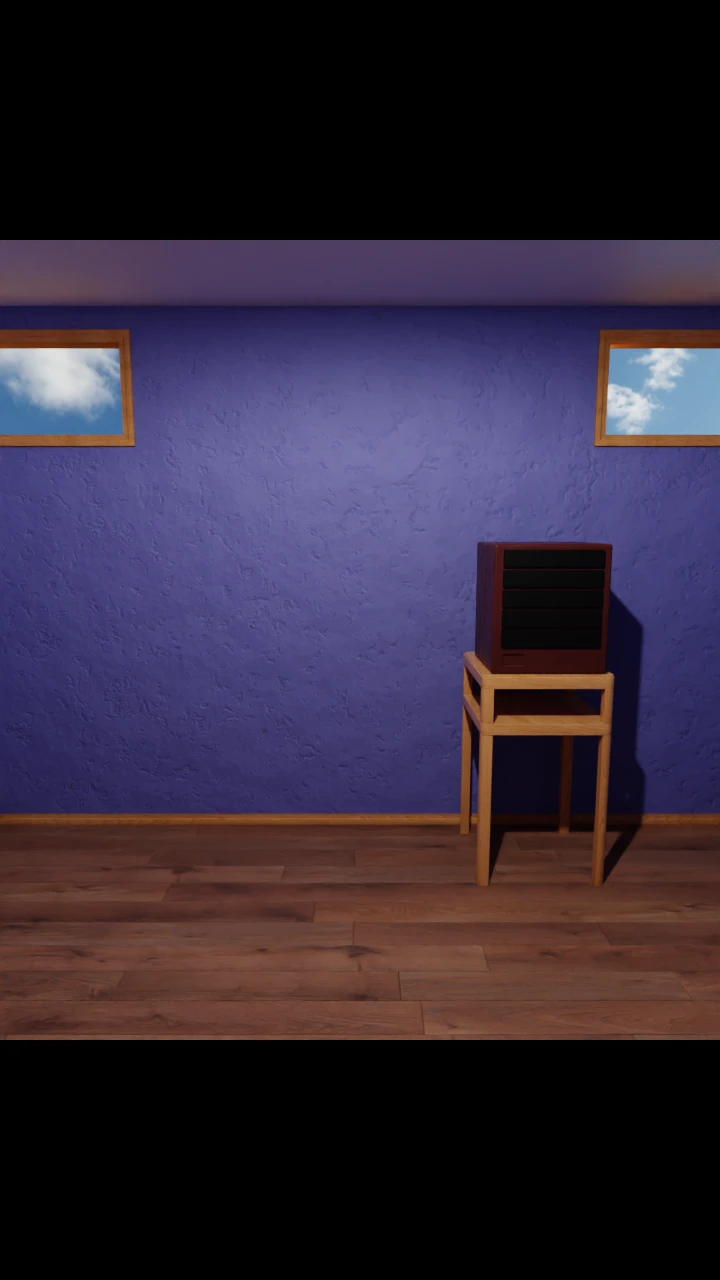
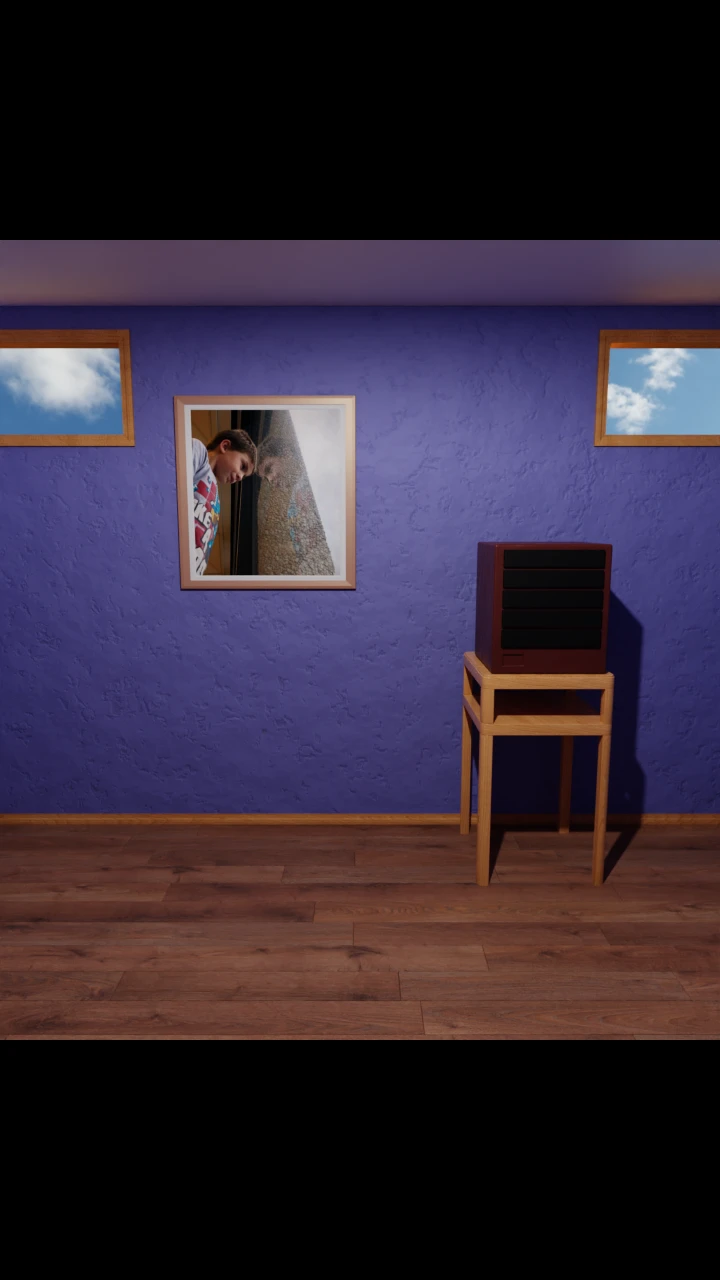
ryland

Changed region(s): [[0.2139, 0.2812, 0.5194, 0.4688]]

diff --git a/src/scenes/main.ts b/src/scenes/main.ts
@@ -24,6 +24,7 @@
 * spoiler sound
 * settings mask, smaller
 * spoiler mask
+* do make secret icon pop objectives on top
 
 * limit 20 minutes, display time at exit
 
@@ -106,6 +107,7 @@ let tableMask: Phaser.GameObjects.Sprite;
 let doorMask: Phaser.GameObjects.Sprite;
 let rangerMask: Phaser.GameObjects.Sprite;
 let funzMask: Phaser.GameObjects.Sprite;
+let rylandMask: Phaser.GameObjects.Sprite;
 
 var battMask: Phaser.GameObjects.Sprite;
 
@@ -313,6 +315,7 @@ export class PlayGame extends Phaser.Scene {
                 takeMask.setVisible(false);
                 tableMask.setVisible(false);
                 rangerMask.setVisible(false);
+                rylandMask.setVisible(false);
                 funzMask.setVisible(false);
                 clue2Mask.setVisible(false);
                 doorMask.setVisible(false);
@@ -392,8 +395,10 @@ export class PlayGame extends Phaser.Scene {
                     twoDoorUnlockedWall.setVisible(true);
             }
 
+            rylandMask.setVisible(false);
             fiveMask.setVisible(false);
             if (viewWall == 3) {
+                rylandMask.setVisible(true); rylandMask.setDepth(100); rylandMask.setInteractive({ cursor: 'pointer' });
                 fiveMask.setVisible(true); fiveMask.setDepth(100); fiveMask.setInteractive({ cursor: 'pointer' });
 
                 const fiveState = myUI.getFiveState();
@@ -639,6 +644,24 @@ export class PlayGame extends Phaser.Scene {
                 cam.zoomTo(3.5, 500);
             }
         });
+
+        rylandMask = this.add.sprite(172,394, 'atlas2', 'rylandMask.png').setOrigin(0, 0).setName("rylandMask");
+        recorder.addMaskSprite('rylandMask', rylandMask);
+        rylandMask.on('pointerdown', () => {
+            const cam = this.cameras.main;
+            if (zoomed) {
+                zoomed = false;
+                cam.pan(360, 640, 750)
+                cam.zoomTo(1, 750);
+                myUI.restoreUILayer();
+                myUI.showSettingsButton();
+            } else {
+                myUI.hideUILayer();
+                zoomed = true;
+                cam.pan(265,495, 500);
+                cam.zoomTo(3.5, 500);
+            }
+        });        
 
         funzMask = this.add.sprite(600, 690, 'atlas2', 'rangerMask.png').setOrigin(0, 0).setName("funzMask");
         recorder.addMaskSprite('funzMask', funzMask);
